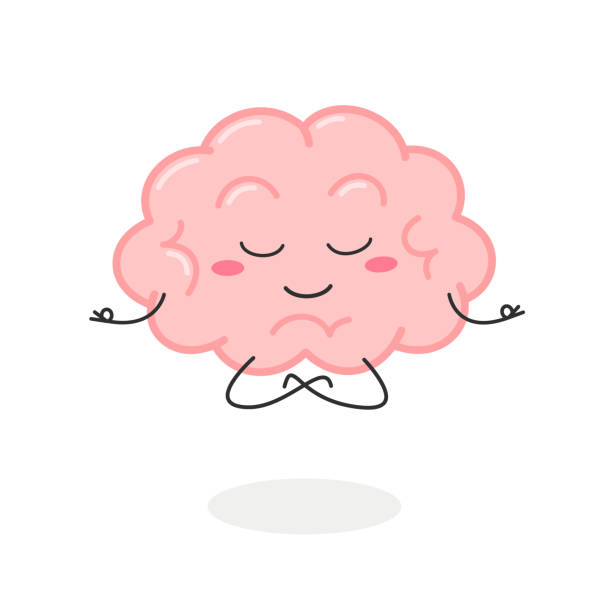
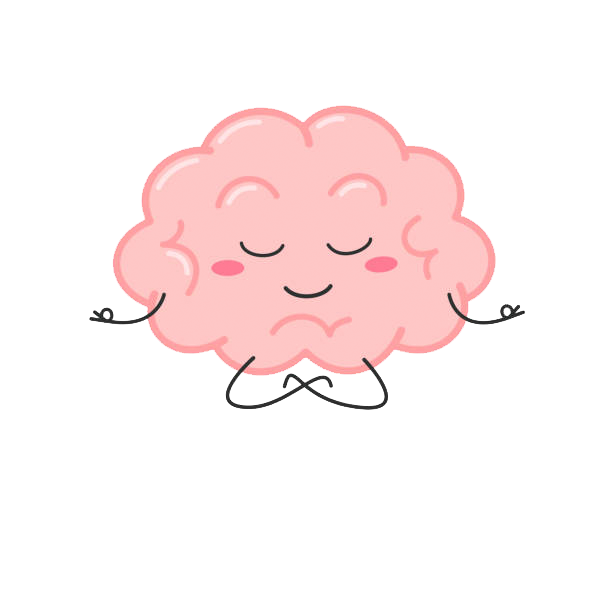
modified the pictures' background

diff --git a/lib/firebase_api.dart b/lib/firebase_api.dart
@@ -5,26 +5,42 @@ import 'package:get_it/get_it.dart';
 class FirebaseApi {
   final _firebaseMessaging = FirebaseMessaging.instance;
   final GetIt _getIt = GetIt.instance;
-  late final NavigationService _navigationService = _getIt.get<NavigationService>();
+  late final NavigationService _navigationService;
+
+  FirebaseApi() {
+    _navigationService = _getIt.get<NavigationService>();
+  }
 
   Future<void> initNotifications() async {
-    await _firebaseMessaging.requestPermission();
-    final fCMToken = await _firebaseMessaging.getToken();
-    print(fCMToken);
-    initPushNotifications();
+    try {
+      await _firebaseMessaging.requestPermission();
+      final fCMToken = await _firebaseMessaging.getToken();
+      print('Token: $fCMToken');
+      initPushNotifications();
+    } catch (e) {
+      print('Error initializing notifications: $e');
+    }
   }
 
   void handleMessage(RemoteMessage? message) {
     if (message == null) return;
 
-    _navigationService.navigatorKey?.currentState?.pushNamed(
-      ('/notifications'),
-      arguments: message,
-    );
+    try {
+      _navigationService.navigatorKey?.currentState?.pushNamed(
+        '/notifications',
+        arguments: message,
+      );
+    } catch (e) {
+      print('Error navigating to notifications: $e');
+    }
   }
 
-  Future initPushNotifications() async {
-    FirebaseMessaging.instance.getInitialMessage().then(handleMessage);
-    FirebaseMessaging.onMessageOpenedApp.listen(handleMessage);
+  Future<void> initPushNotifications() async {
+    try {
+      FirebaseMessaging.instance.getInitialMessage().then(handleMessage);
+      FirebaseMessaging.onMessageOpenedApp.listen(handleMessage);
+    } catch (e) {
+      print('Error initializing push notifications: $e');
+    }
   }
 }

diff --git a/lib/pages/Profile/profile.dart b/lib/pages/Profile/profile.dart
@@ -139,6 +139,7 @@ class _ProfileState extends State<Profile> with RouteAware {
           }
         },
       ),
+      bottomNavigationBar: const CustomBottomNavBar(initialIndex: 4),
     );
   }
 
@@ -153,7 +154,6 @@ class _ProfileState extends State<Profile> with RouteAware {
           buildTabBarSection(),
         ],
       ),
-      bottomNavigationBar: const CustomBottomNavBar(initialIndex: 4),
     );
   }
 

diff --git a/lib/pages/Administation/forget_password.dart b/lib/pages/Administation/forget_password.dart
@@ -110,7 +110,7 @@ class _ForgetPasswordState extends State<ForgetPassword> {
               ),
               const SizedBox(height: 20),
               Image.asset(
-                "assets/img/lock1.png",
+                "assets/img/lock.png",
                 alignment: Alignment.topCenter,
               ),
               entryField("email", _emailController, prefixIcon: Icons.email),
